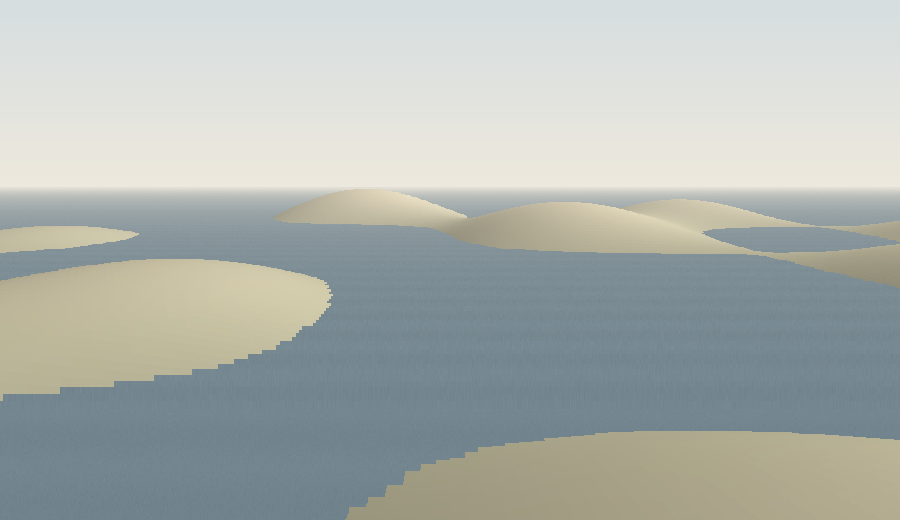
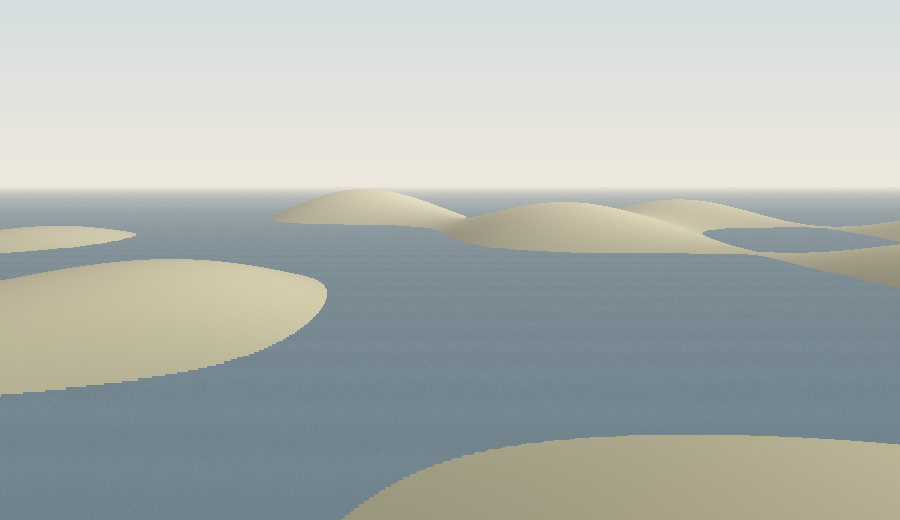
tools/voxelspace.py: bilinear sampling and geometric depth steps remove near-camera stair-steps
Claude-Session: https://claude.ai/code/session_01NfzKD2odJE5hZRDzAsJcsd

diff --git a/tools/voxelspace.py b/tools/voxelspace.py
@@ -11,7 +11,8 @@ Mandelbrot escape counts and the water was an iteration limit.
 
 Heights are in the same units as camera height; exaggerate small ranges (a flat frame of water with a sliver of
 land means the range is too small against the camera). Coordinates outside the map are open "floor" at
-floor_height (defaults to the map minimum), so the horizon stays straight.
+floor_height (defaults to the map minimum), so the horizon stays straight. Heights are sampled bilinearly by
+default (bilinear=False gives the blocky classic voxel look used by the-flood and the-descent).
 """
 import numpy as np
 
@@ -24,7 +25,8 @@ LAND_HIGH = np.array([206, 194, 164])
 
 def render(heights, water=None, size=(1200, 700), camera=None, horizon=0.33, focal=180.0, fov=1.25,
            depth=(2.0, 900.0), steps=(160, 420), fog_distance=900.0, slope_light=0.12, seed=0,
-           sky=(SKY_TOP, SKY_LOW), water_colour=WATER, land=(LAND_LOW, LAND_HIGH), floor_height=None):
+           sky=(SKY_TOP, SKY_LOW), water_colour=WATER, land=(LAND_LOW, LAND_HIGH), floor_height=None,
+           bilinear=True):
     """Render heights (2D array, rows = y forward, cols = x) to an RGB uint8 array of shape (H, W, 3)."""
     heights = np.asarray(heights, dtype=np.float64)
     ny, nx = heights.shape
@@ -43,18 +45,30 @@ def render(heights, water=None, size=(1200, 700), camera=None, horizon=0.33, foc
     ybuf = np.full(W, H)
     cols = np.arange(W)
     near, far = depth
-    mid = near + (far - near) * 0.065
-    zs = np.concatenate([np.linspace(near, mid, steps[0]), np.linspace(mid, far, steps[1])])
+    # geometric depth spacing: fine steps near the camera (where one step spans many screen rows), coarse far away
+    zs = np.geomspace(near, far, steps[0] + steps[1])
     rng = np.random.default_rng(seed)
 
     for z in zs:
         px = cam_x + (cols - W / 2) / W * z * fov
         py = cam_y + z
-        inside = (px >= 0) & (px < nx - 1) & (0 <= py < ny - 1)
-        ix = np.clip(px.astype(int), 0, nx - 2)
-        iy = int(np.clip(py, 0, ny - 2))
-        h = np.where(inside, heights[iy, ix], floor)
-        hx = np.where(inside, heights[iy, ix + 1], floor)
+        inside = (px >= 0) & (px < nx - 2) & (0 <= py < ny - 1)
+        if bilinear:
+            # smooth sampling removes the stair-steps close to the camera
+            fx = np.clip(px, 0, nx - 2.001)
+            fy = float(np.clip(py, 0, ny - 1.001))
+            ix, iy = fx.astype(int), int(fy)
+            ax, ay = fx - ix, fy - iy
+            row0 = heights[iy, ix] * (1 - ax) + heights[iy, ix + 1] * ax
+            row1 = heights[iy + 1, ix] * (1 - ax) + heights[iy + 1, ix + 1] * ax
+            h = np.where(inside, row0 * (1 - ay) + row1 * ay, floor)
+            nxt = heights[iy, ix + 1] * (1 - ax) + heights[iy, ix + 2] * ax
+            hx = np.where(inside, nxt * (1 - ay) + (heights[iy + 1, ix + 1] * (1 - ax) + heights[iy + 1, ix + 2] * ax) * ay, floor)
+        else:
+            ix = np.clip(px.astype(int), 0, nx - 2)
+            iy = int(np.clip(py, 0, ny - 2))
+            h = np.where(inside, heights[iy, ix], floor)
+            hx = np.where(inside, heights[iy, ix + 1], floor)
         surf = h if water is None else np.maximum(h, water)
         y = (hy + (cam_h - surf) / z * focal).astype(int)
         tone = np.clip((h - lo) / span, 0, 1)

diff --git a/TECHNIQUES.md b/TECHNIQUES.md
@@ -609,3 +609,4 @@ the coda marks.
 - **Cyanotype-palette kinetic chart** (`the-ratchet.py`): palette only (no photogram physics), staircases drawn over frames with pawl teeth; GIF via PIL quantize. Weakest of the set.
 - **Toolkit: `tools/voxelspace.py`** (same session): the voxel-space caster generalised for reuse (any field, water, open floor, fog); used for the captionless seascape `the-dry-spire.png` (Sugimoto, off-centre).
 - **Descent through a self-similar point** (`the-descent.py`): per-zoom-step heightfields from the Mandeldive CPU renderer rendered with `tools/voxelspace.py`. **Lesson:** normalise each step separately to show self-similarity (the land re-forms); a global normalisation shows the escape counts climbing with depth instead (the land sinks under a fixed sea).
+- **voxelspace.py v2** (same session): bilinear height sampling + `np.geomspace` depth steps. **Lesson:** near-camera stair-steps in a voxel caster come mainly from linear depth stepping (one step spans many screen rows up close), not from nearest sampling.

diff --git a/portfolio/2026-09-14-one-nights-build/README.md b/portfolio/2026-09-14-one-nights-build/README.md
@@ -65,8 +65,10 @@ drawn from a real event or real numbers from that build; nothing is invented.
 Toolkit grown: `tools/voxelspace.py` (the column caster from the flood,
 generalised: any 2D field, optional water level, open floor beyond the map so
 the horizon stays straight, fog, slope light; smoke test writes
-`tools/voxelspace-demo.png`). Known limitation: nearest sampling stair-steps
-close to the camera.
+`tools/voxelspace-demo.png`). Its first version stair-stepped near the camera;
+fixed in the same half hour with bilinear height sampling plus geometric depth
+spacing (the steps came mostly from coarse depth steps, not the sampling).
+`bilinear=False` keeps the blocky classic look the flood and the descent use.
 
 `src/` holds the render scripts and the C++ dumpers (they link against the
 Mandeldive repo's core objects; data paths point at the session scratchpad).
